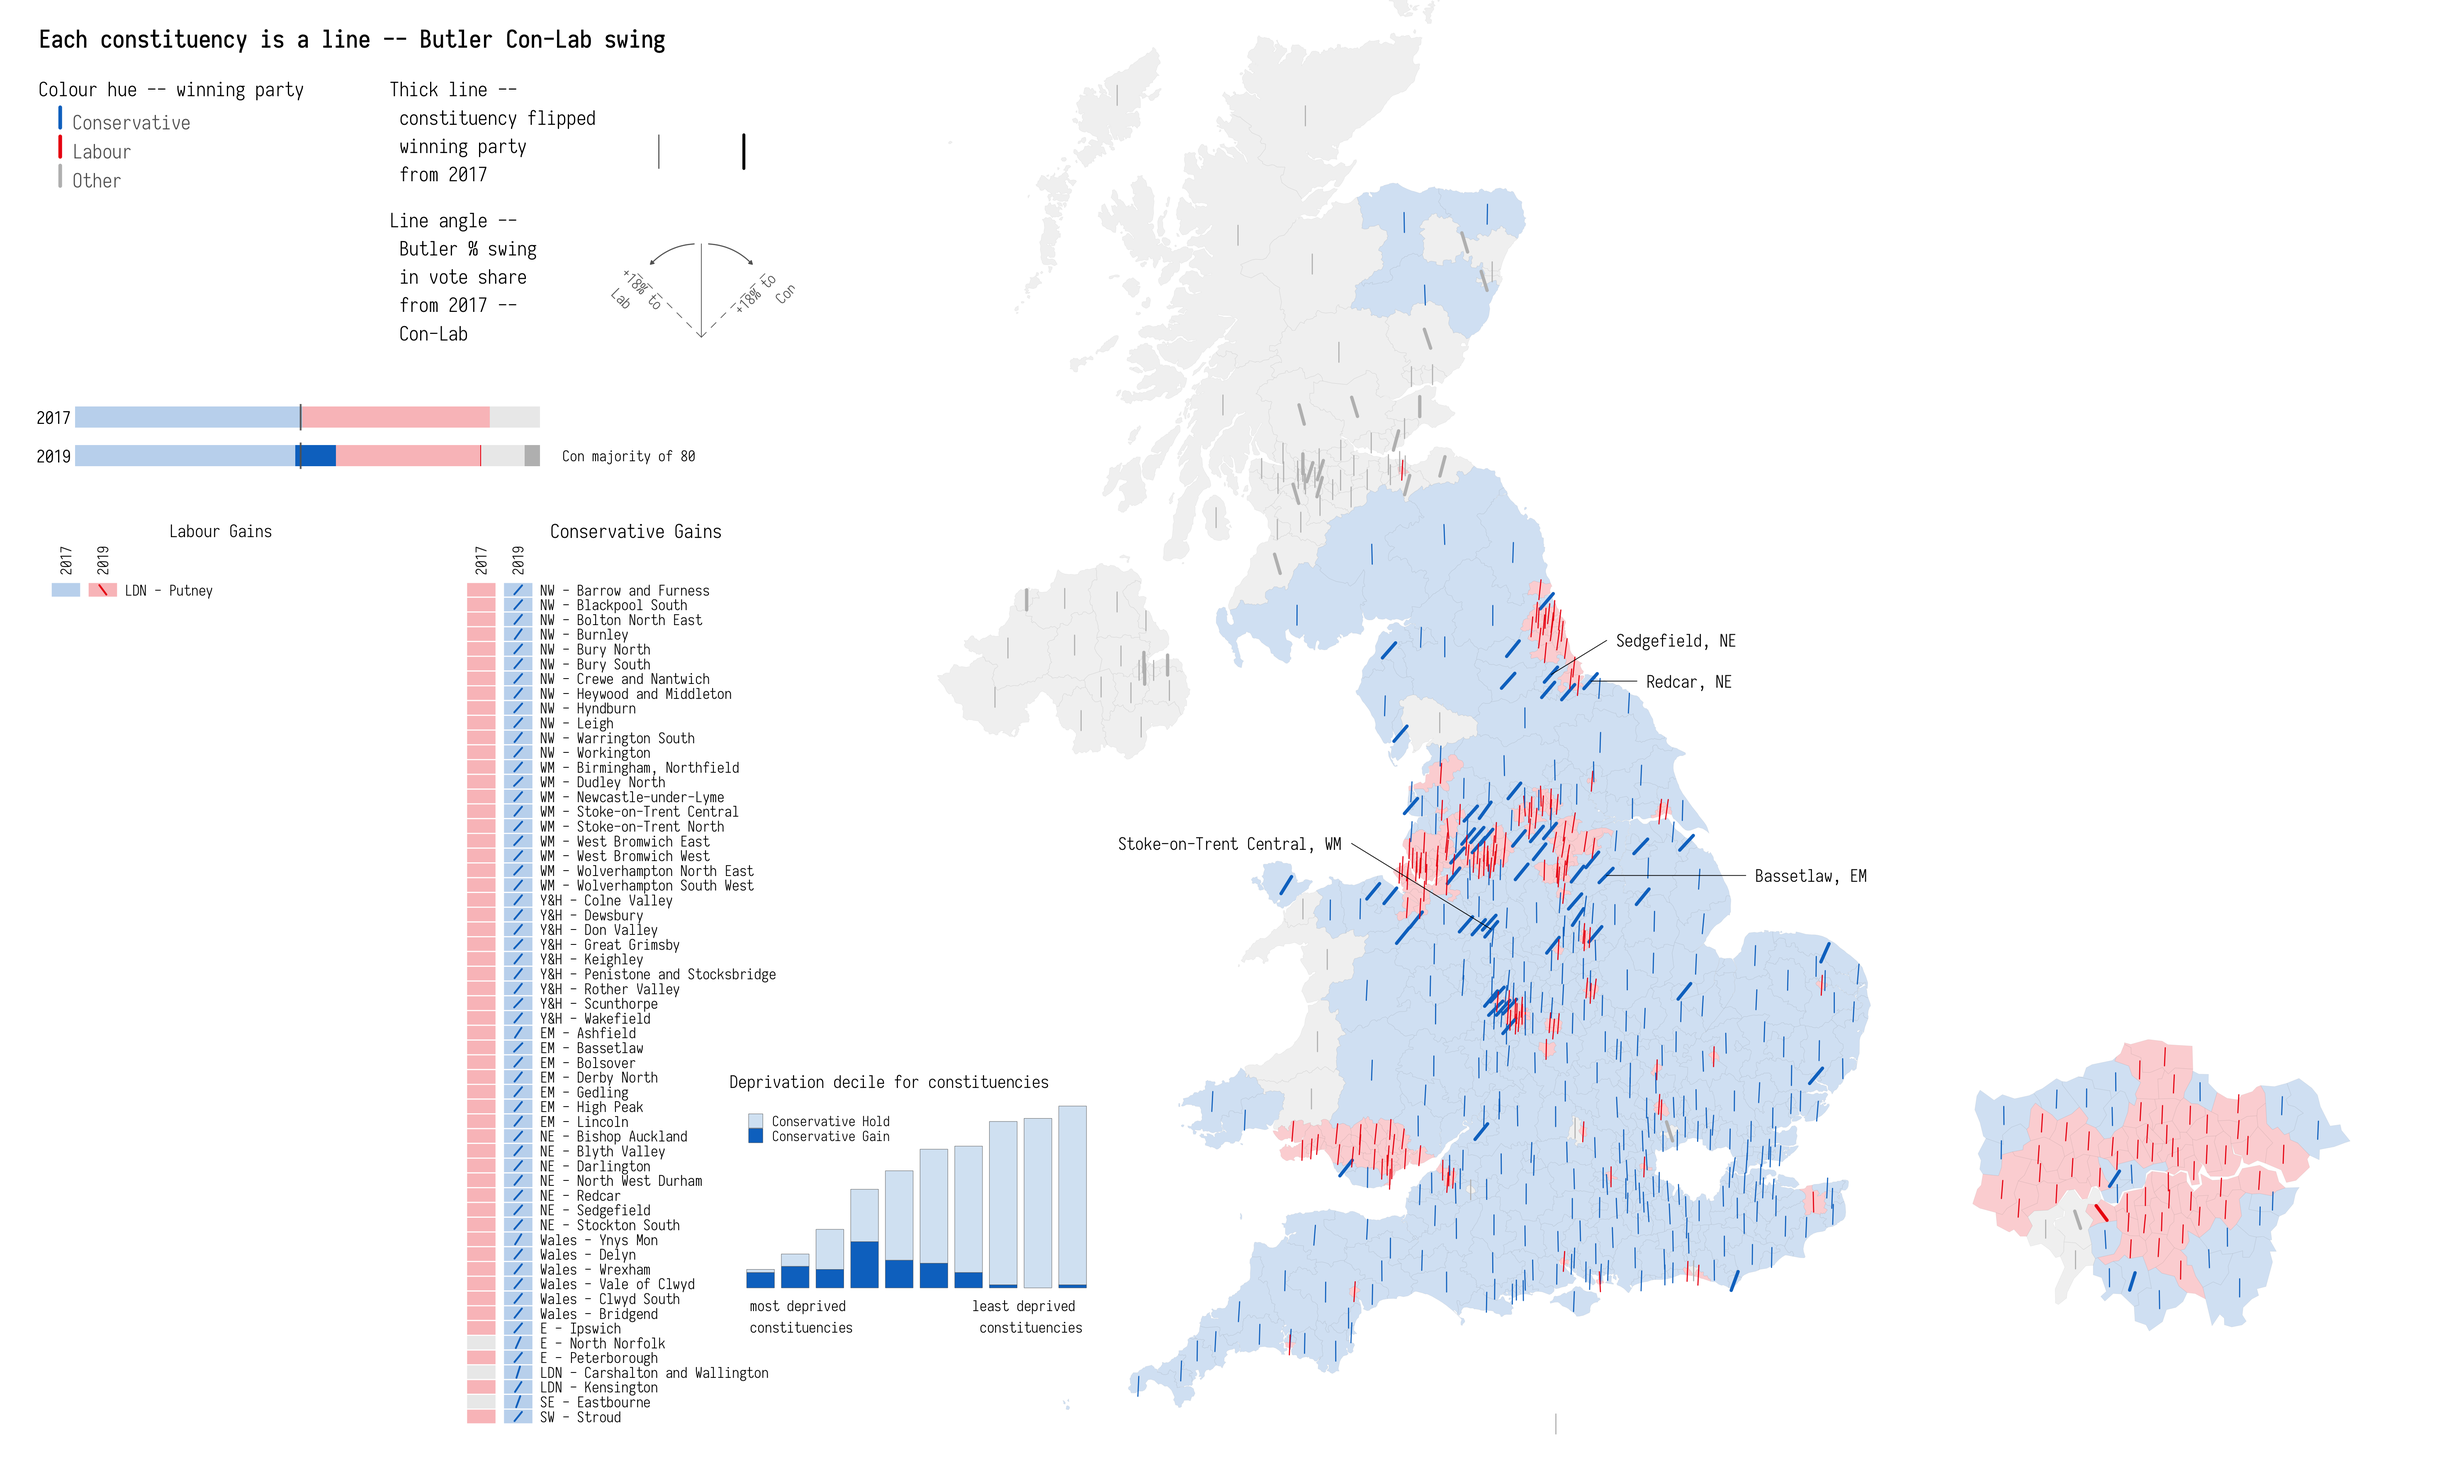
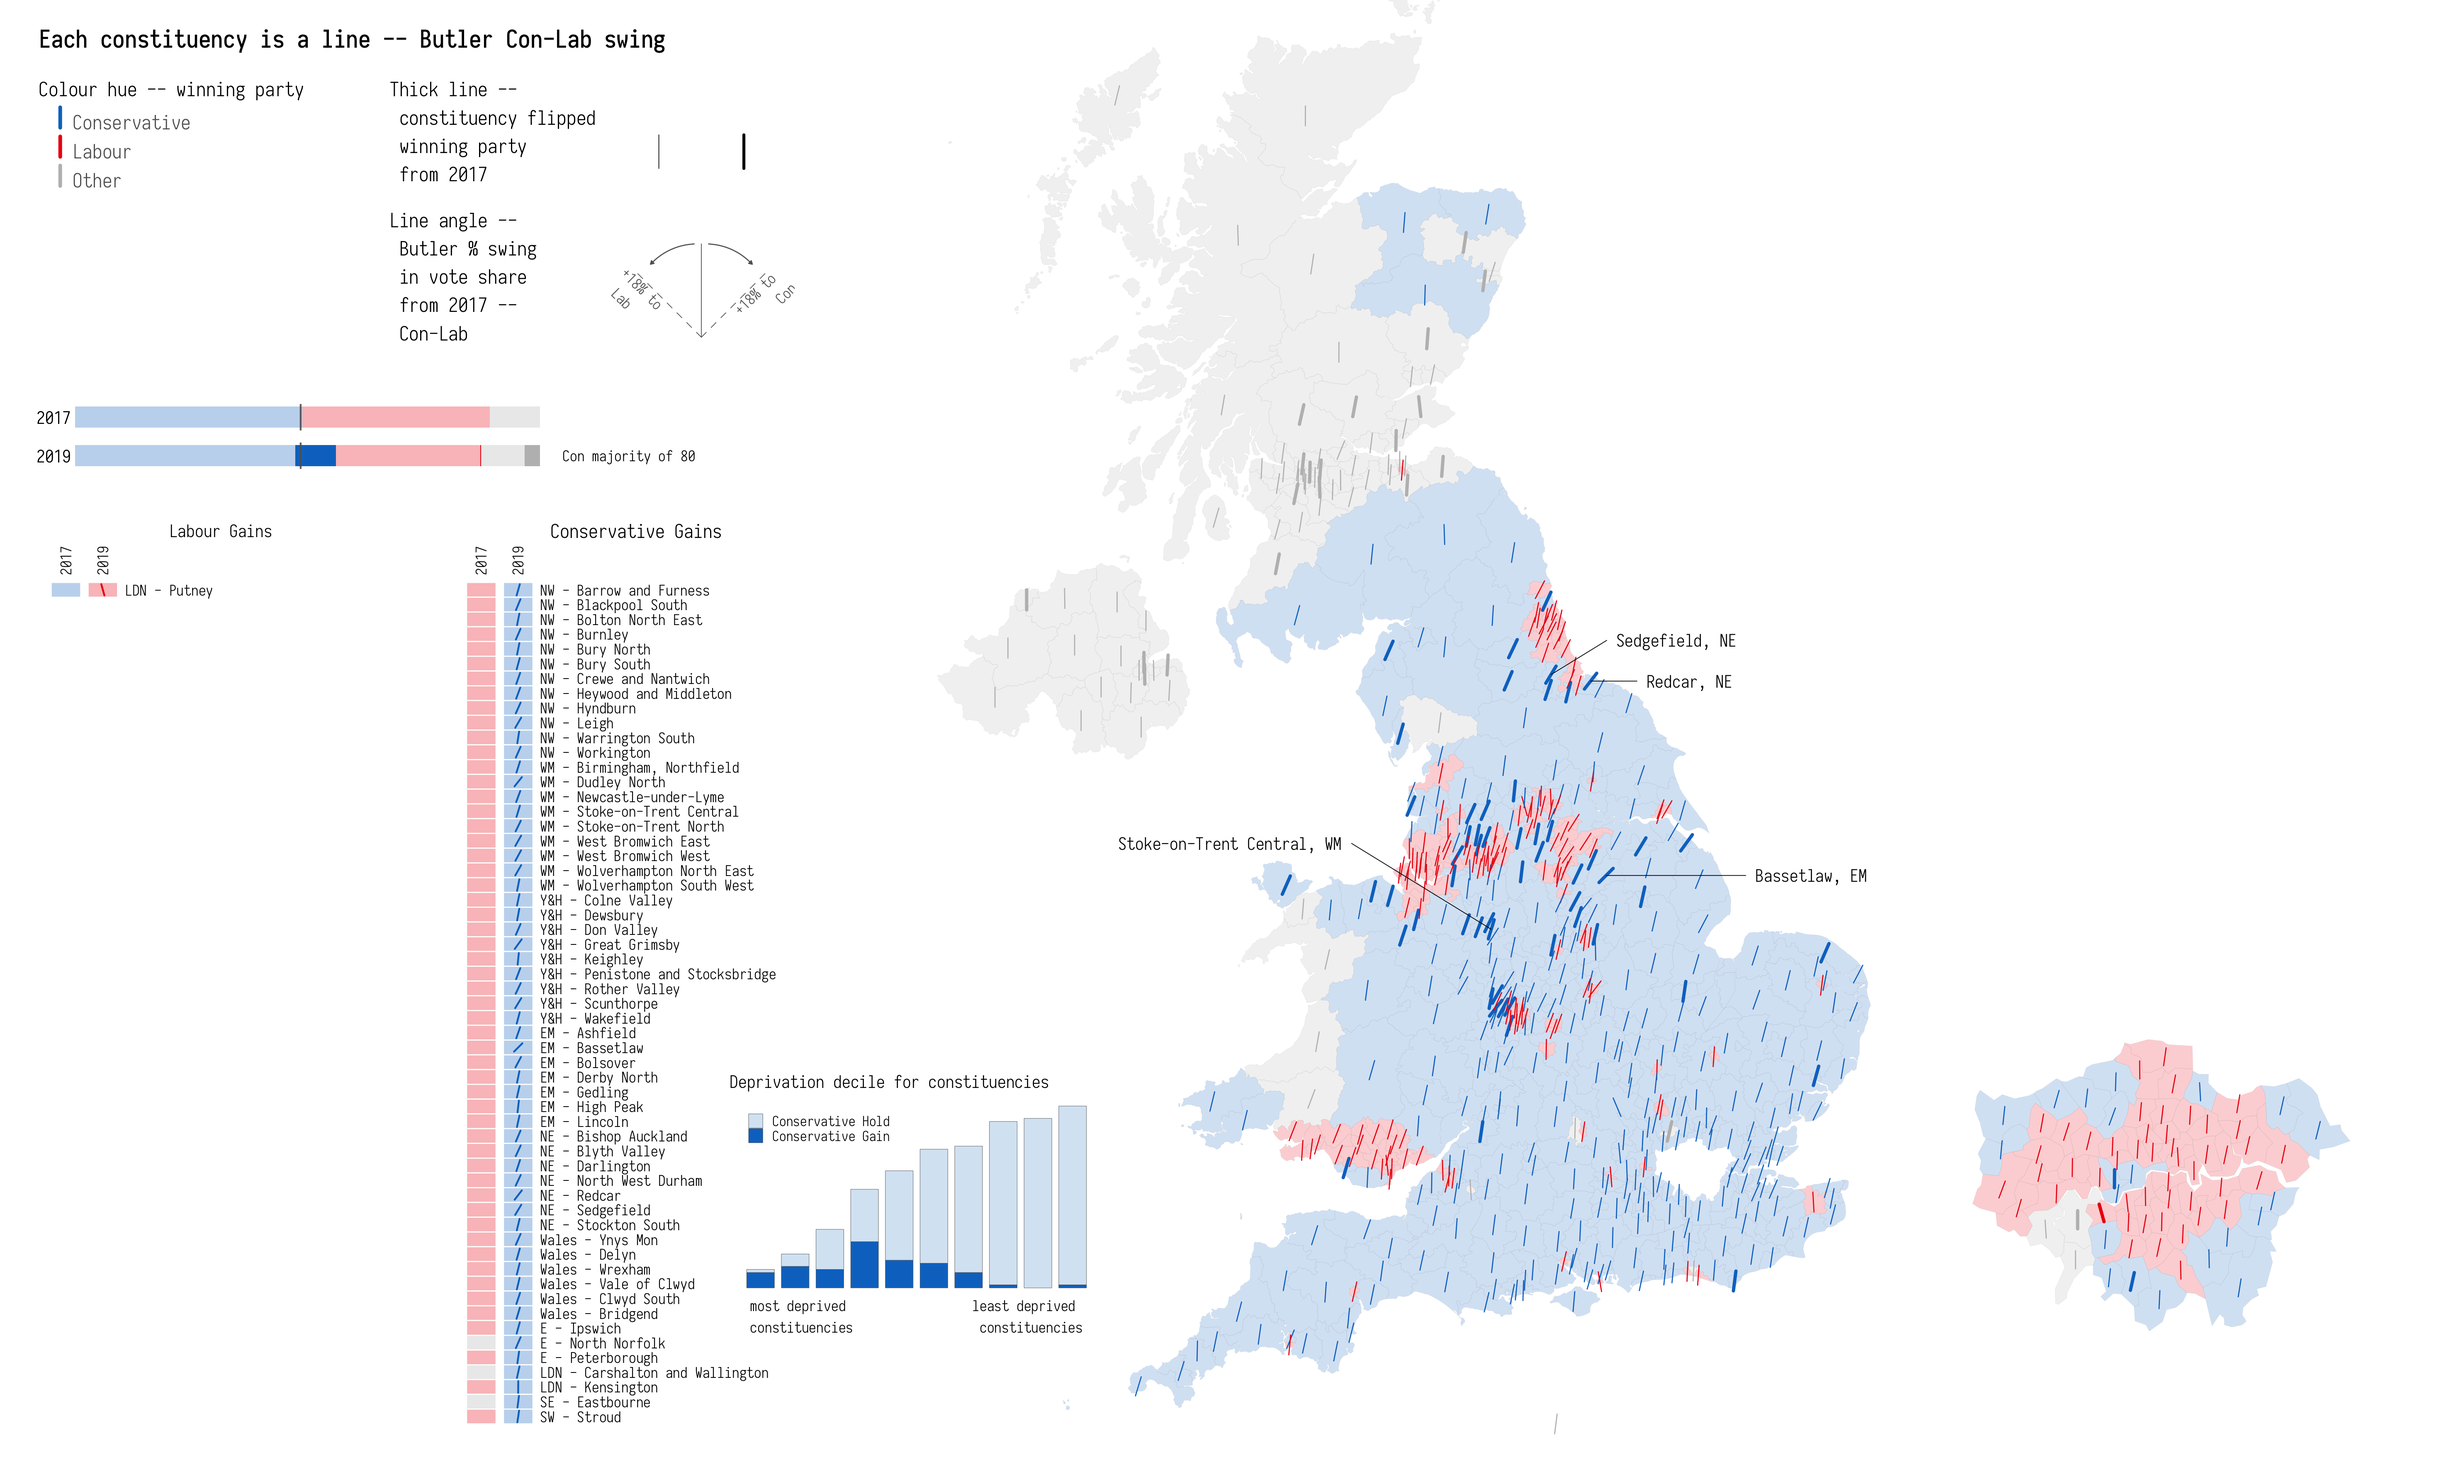
Refactored repo.

diff --git a/README.md b/README.md
@@ -109,9 +109,10 @@ data_plot <- data %>% group_by(ons_code, year) %>%
   # Make wide again so that each column is a party.
   pivot_wider(names_from=party, values_from = vote_share) %>%
   mutate_at(vars(Conservative:Plaid_Cymru), ~if_else(is.na(.x),0,.x)) %>%
-  group_by(ons_code, year, elected, is_flipped) %>%
+  mutate(is_flipped=as.integer(is_flipped), is_flipped=if_else(is.na(is_flipped), as.integer(-1),is_flipped)) %>%
+  group_by(ons_code, year) %>% # elected, is_flipped
   # Store derived values for the elected parties in constituency.
-  summarise_at(vars(valid_votes, total_votes, elected_share, elected_shift, Conservative:Plaid_Cymru), ~max(.)) %>% ungroup () %>%
+  summarise_at(vars(valid_votes, total_votes, elected_share, elected_shift, Conservative:Plaid_Cymru, elected, is_flipped), ~max(.)) %>% ungroup () %>%
   # Filter so one row for each constituency-year.
   filter(elected!="") %>% 
   # Calculate shift from 2017.
@@ -123,7 +124,11 @@ data_plot <- data %>% group_by(ons_code, year) %>%
   mutate(
     swing_con_lab=0.5*(Conservative_shift-Labour_shift),
     swing_con_lib=0.5*(Conservative_shift-Liberal_Democrat_shift),
-    swing_lib_lab=0.5*(Liberal_Democrat_shift-Labour_shift)
+    swing_lib_lab=0.5*(Liberal_Democrat_shift-Labour_shift),
+    # Recast is_flipped as boolean
+    is_flipped=is_flipped>0,
+    # Recode Chorley (uncontested seat) to 0.
+    swing_con_lab=if_else(ons_code=="E14000637",0,swing_con_lab)
   ) 
 
 # Join with boundary data.
